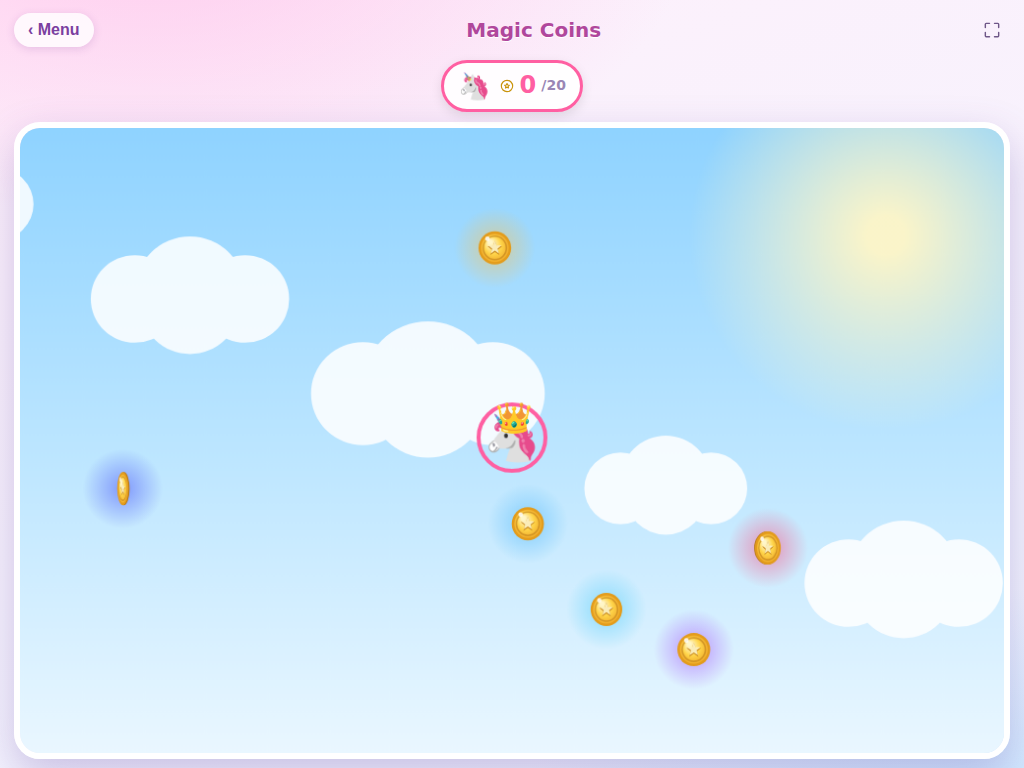
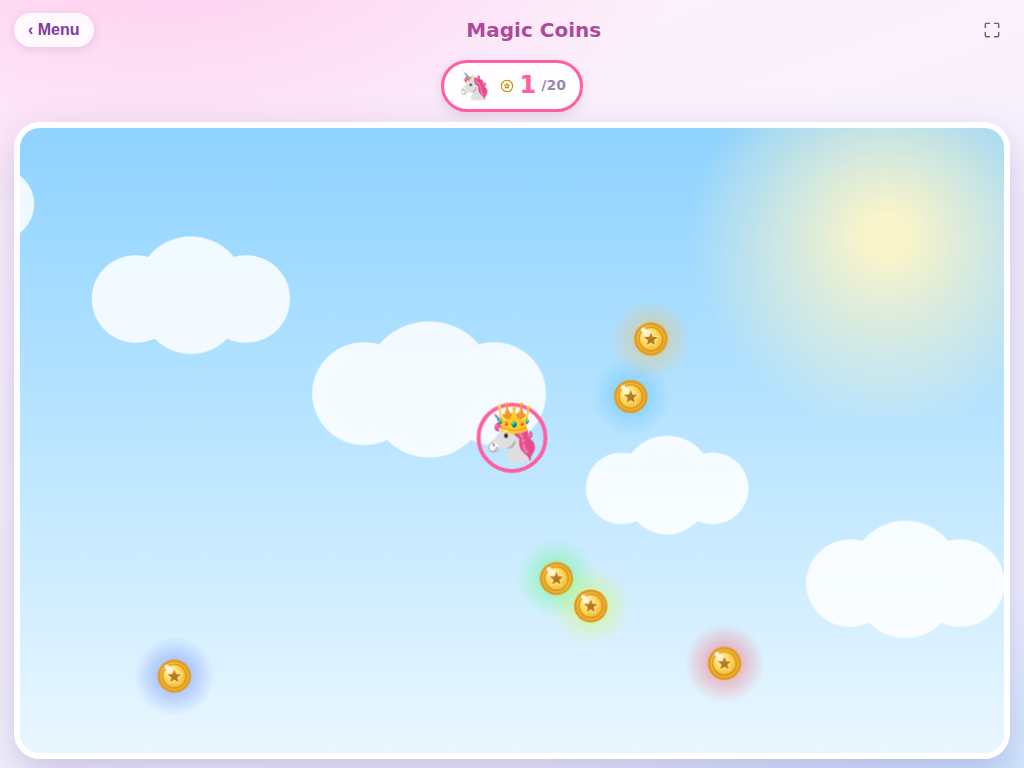
Magic Coins: coins stay perfect circles, one clean star stamp
The family verdict on the first pass: no spin flip (coins must never go
oval), and the two-star stamp read as a frowny face at coin size. Coins
keep the rim, struck face, inner ring, and glint, always face-on, with
a single engraved star. Stamp options are with the family; whichever
wins is a five-line swap here.

Claude-Session: https://claude.ai/code/session_01Pet5917XAbMAsbQM47tWg6

diff --git a/src/games/unicorn/components/scene.ts b/src/games/unicorn/components/scene.ts
@@ -110,24 +110,9 @@ function drawCoin(ctx: CanvasRenderingContext2D, x: number, y: number, hue: numb
   ctx.arc(x, cy, r * 2.4, 0, Math.PI * 2);
   ctx.fill();
 
-  // The coin spins on its vertical axis (per-coin phase so they don't sync);
-  // squashing x by the spin is the classic canvas fake-3D flip.
-  const spin = Math.cos(time * 2.4 + x * 0.13 + hue * 0.05);
-  const w = Math.max(0.16, Math.abs(spin)); // never quite edge-on-invisible
-
+  // No spin flip — the family wants coins that stay perfect circles.
   ctx.save();
   ctx.translate(x, cy);
-  ctx.scale(w, 1);
-
-  // Milled edge: a darker gold disc peeking out on the side turning away —
-  // strongest mid-flip, gone when the coin faces us square.
-  const thickness = 5 * (1 - w);
-  if (thickness > 0.5) {
-    ctx.fillStyle = '#b8791a';
-    ctx.beginPath();
-    ctx.arc(spin >= 0 ? -thickness : thickness, 0, r, 0, Math.PI * 2);
-    ctx.fill();
-  }
 
   // Rim, then the brighter face inset into it.
   ctx.fillStyle = '#e39c1c';
@@ -151,11 +136,16 @@ function drawCoin(ctx: CanvasRenderingContext2D, x: number, y: number, hue: numb
   ctx.arc(0, 0, r - 5, 0, Math.PI * 2);
   ctx.stroke();
 
-  // The star stamp — pressed into the metal (dark star, light catch below).
-  ctx.fillStyle = 'rgba(199,134,29,0.9)';
-  star(ctx, 0, 0.8, 8, 3.4, 5);
-  ctx.fillStyle = 'rgba(255,246,201,0.9)';
-  star(ctx, 0, -0.2, 7.2, 3, 5);
+  // The star stamp — ONE engraved star. (The old two-star-with-shadow stack
+  // read as a frowny face at coin size; never layer offset stamps.)
+  const stampGrad = ctx.createLinearGradient(0, -8.5, 0, 8.5);
+  stampGrad.addColorStop(0, '#c7861d');
+  stampGrad.addColorStop(1, '#a86f14');
+  ctx.fillStyle = stampGrad;
+  star(ctx, 0, 0.3, 8.5, 3.6, 5);
+  ctx.strokeStyle = 'rgba(255,246,201,0.8)';
+  ctx.lineWidth = 1;
+  ctx.stroke();
 
   // Glint riding the top-left rim.
   ctx.fillStyle = 'rgba(255,255,255,0.85)';
